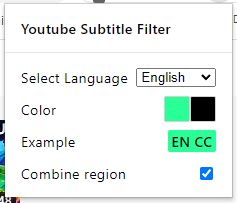
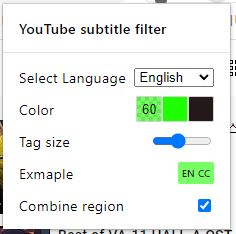
Update README.md

diff --git a/README_KO.md b/README_KO.md
@@ -13,6 +13,7 @@ README 페이지를 영문로 보시려면 아래를 참고하세요.
 
 ## 사용자 설정
 - 팝업 메뉴에서 태그의 색상을 선택할 수 있습니다. (배경색상, 글자색상)
+- 태그의 크기를 조절 할 수 있습니다.
 - 지역언어 통합 기능으로 여러지역으로 나눠진 자막을 하나로 검색할 수 도 있습니다. (예: 영어(영국) + 영어(미국))
 
 ![팝업 예시화면](asset/showcase_popup_ko.jpg)

diff --git a/README.md b/README.md
@@ -14,6 +14,7 @@ Add a subtitle tag to the video in the language you want.
 
 ## Customize
 - You can customize tag color in popup menu (background and text color)
+- You can resize the subtitle tags
 - You can search for subtitles by grouping regions. (ex en-US + en-GB)
 
 ![Showcase Popup](asset/showcase_popup.jpg)
